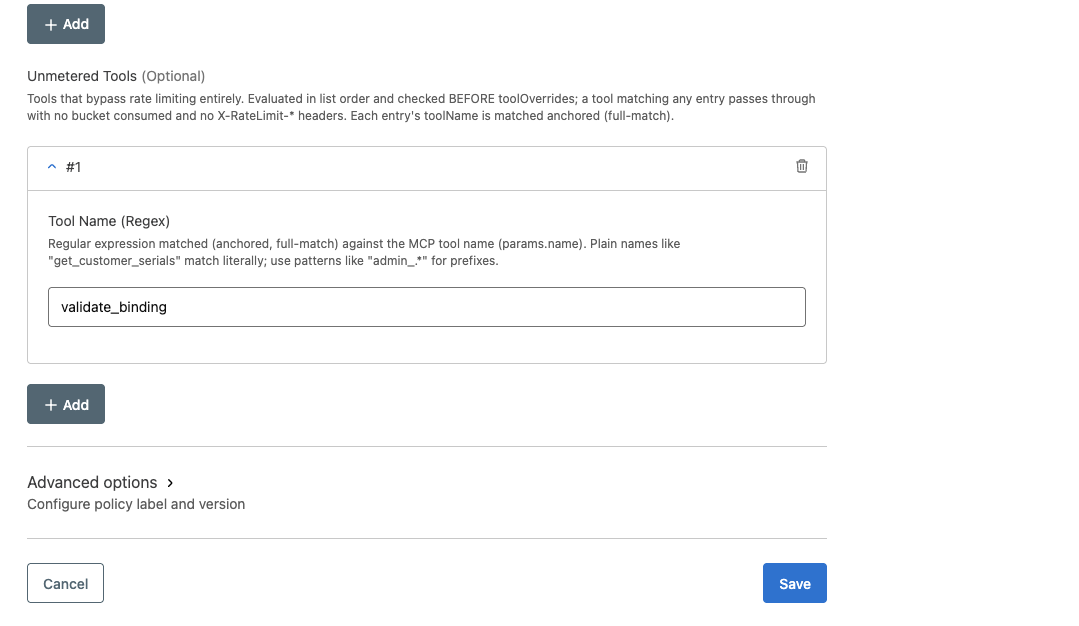
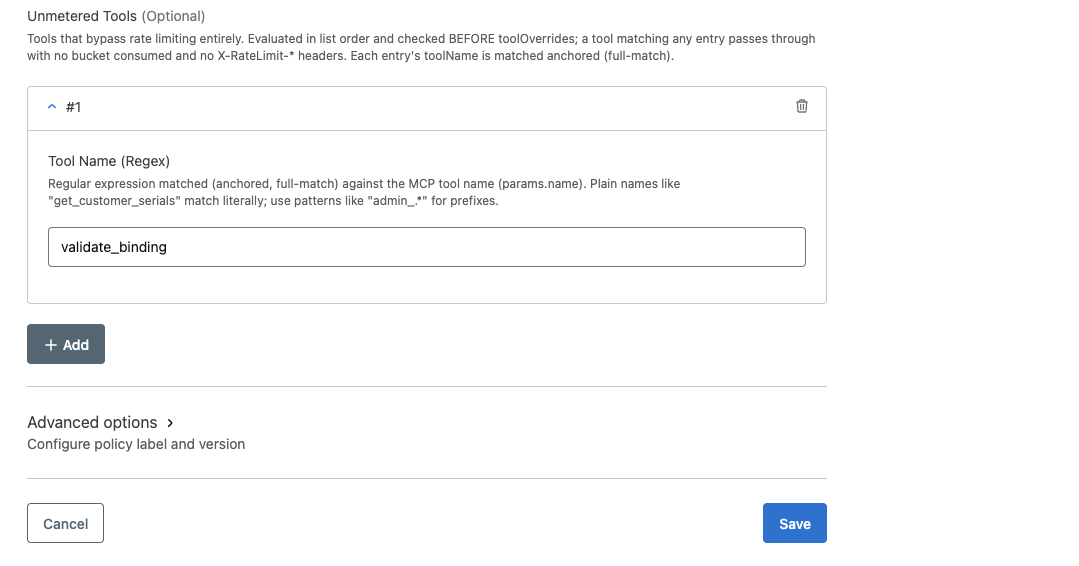
docs: refresh README for 1.0.0 config surface; crop image 2
- README: add exposeRateLimitHeadersOnSuccess, toolOverrides, unmeteredTools,
  null-safe keySelector, resolution order, and a how-to.md link; align
  examples with the released 1.0.0 config.
- Crop the leading '+ Add' button off the Unmetered Tools screenshot so it
  starts at the section heading.

diff --git a/README.md b/README.md
@@ -1,39 +1,80 @@
 # MCP Tool Rate Limit Policy
 
-Limits the number of MCP `tools/call` requests per operator-defined key per time window.
+Limits the number of MCP `tools/call` requests per operator-defined key per
+rolling time window — a MuleSoft Omni Gateway custom policy (PDK). Caps MCP
+traffic per `(caller, tool)` so a single rogue agent or runaway loop can't
+starve other consumers of an MCP server.
+
+It inspects the JSON-RPC 2.0 envelope, evaluates a DataWeave `keySelector` (with
+the tool name bound as `vars.toolName`), and consumes one unit from a clustered
+rate-limit bucket. A **default** tier applies to every tool; optional **per-tool
+overrides** and **unmetered tools** layer on top. Everything that is not a
+recognised `tools/call` passes through untouched (fail-open on parse).
+
+For the full guide — strategies, config-form screenshots, testing, and response
+semantics — see [`how-to.md`](how-to.md).
 
 ## Configuration
 
 | Property | Type | Required | Description |
 |---|---|---|---|
-| `maximumRequests` | integer ≥ 1 | yes | Requests allowed per window |
-| `timePeriodInMilliseconds` | integer ≥ 1000 | yes | Window length in ms |
-| `keySelector` | DataWeave string | yes | Full rate-limit key — operator composes desired dimensions |
+| `keySelector` | DataWeave string | yes | Full rate-limit key — operator composes the desired dimensions |
+| `maximumRequests` | integer ≥ 1 | yes | Default requests allowed per window |
+| `timePeriodInMilliseconds` | integer ≥ 1000 | yes | Default window length in ms |
+| `exposeRateLimitHeadersOnSuccess` | boolean | no (default `false`) | Attach `X-RateLimit-*` headers to allowed (2xx) responses. The 429 response always carries them plus `Retry-After` regardless |
+| `toolOverrides` | array | no | Per-tool limits — each `{ toolName (regex), maximumRequests, timePeriodInMilliseconds }`. First matching entry wins |
+| `unmeteredTools` | array | no | Tools exempt from rate limiting — each `{ toolName (regex) }`. Checked **before** overrides |
 
-The MCP tool name is exposed as `vars.toolName`. Available references inside `keySelector`:
+`toolOverrides[].toolName` and `unmeteredTools[].toolName` are **regular
+expressions** matched **anchored / full-match** against the MCP tool name
+(`params.name`): `get_.*` matches `get_x` but not `xget_x`; a plain name like
+`validate_binding` matches only that exact name. Regexes compile once at
+startup — an invalid pattern makes the policy fail to start.
+
+The MCP tool name is exposed as `vars.toolName`. References available inside
+`keySelector`:
 
 - `#[attributes.headers['…']]`
 - `#[attributes.principal]`
 - `#[vars.toolName]`
 
+**Resolution order (per request):** `unmeteredTools` (passthrough, no bucket) →
+`toolOverrides` (first match wins) → default tier.
+
+> **Null-safety:** guard optional header references with `default`, e.g.
+> `(attributes.headers['client_id'] default 'anon')` — an unguarded null deref
+> fails evaluation and returns JSON-RPC `-32600`.
+
 ## Examples
 
-Per-(caller, tool):
+Per-(caller, tool) with a wider read budget and an unmetered health check:
 ```yaml
-maximumRequests: 60
+keySelector: "#[(attributes.headers['client_id'] default 'anon') ++ '|' ++ vars.toolName]"
+maximumRequests: 5             # default: 5/min per key
 timePeriodInMilliseconds: 60000
-keySelector: "#[attributes.headers['client_id'] ++ '|' ++ vars.toolName]"
+exposeRateLimitHeadersOnSuccess: true
+toolOverrides:
+  - toolName: "get_.*"         # regex; wider budget for read tools
+    maximumRequests: 20
+    timePeriodInMilliseconds: 60000
+unmeteredTools:
+  - toolName: "health.*"       # bypass the limiter
 ```
 
-Per-tool ceiling:
+Per-tool ceiling (any caller), single default tier:
 ```yaml
+keySelector: "#[vars.toolName]"
 maximumRequests: 10
 timePeriodInMilliseconds: 60000
-keySelector: "#[vars.toolName]"
 ```
 
 ## Behavior
 
-- Targets `POST` requests with `Content-Type: application/json` and a JSON-RPC 2.0 body whose `method` is `tools/call`.
-- All other traffic passes through (fail-open on parse).
-- On limit-exceeded: returns JSON-RPC error envelope with HTTP 429 and rate-limit headers.
+- Targets `POST` requests with `Content-Type: application/json` and a JSON-RPC
+  2.0 body whose `method` is `tools/call` and whose `params.name` is a non-empty
+  string. All other traffic passes through (fail-open on parse).
+- Consumes one unit from a clustered PDK rate-limit bucket per matched
+  `tools/call`; multiple Omni Gateway replicas share the window state.
+- On limit-exceeded: JSON-RPC error envelope with HTTP `429` (code `-32000`)
+  plus `X-RateLimit-*` and `Retry-After` headers.
+- Bad `keySelector` → `400` / `-32600`; storage failure → `500` / `-32603`.